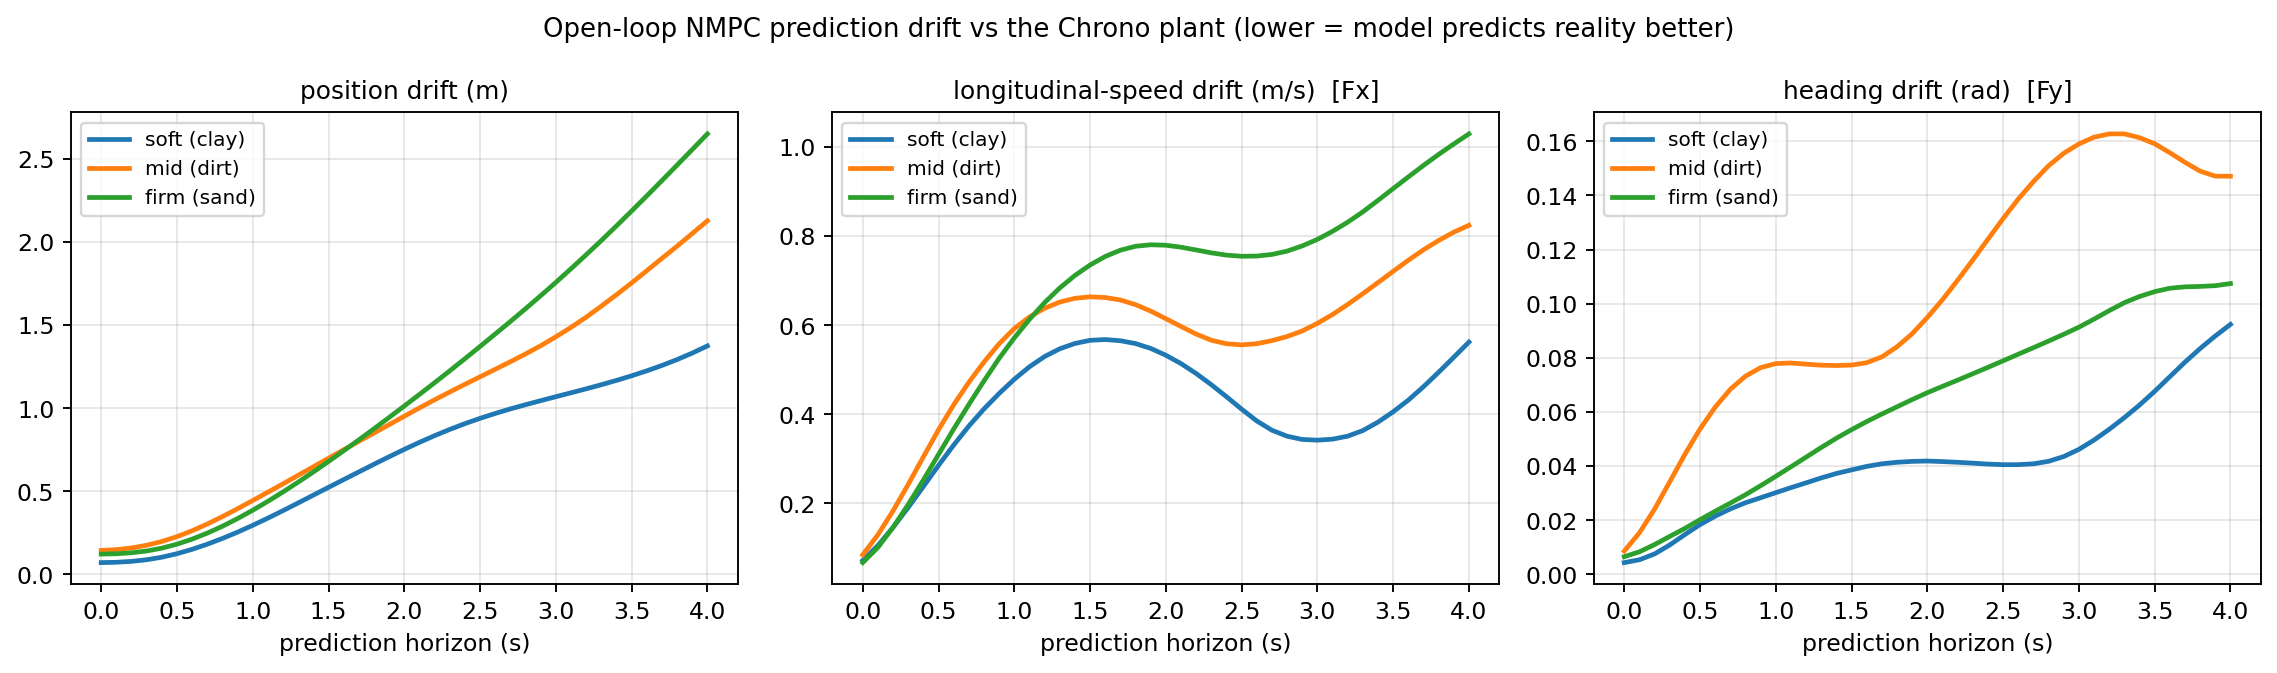
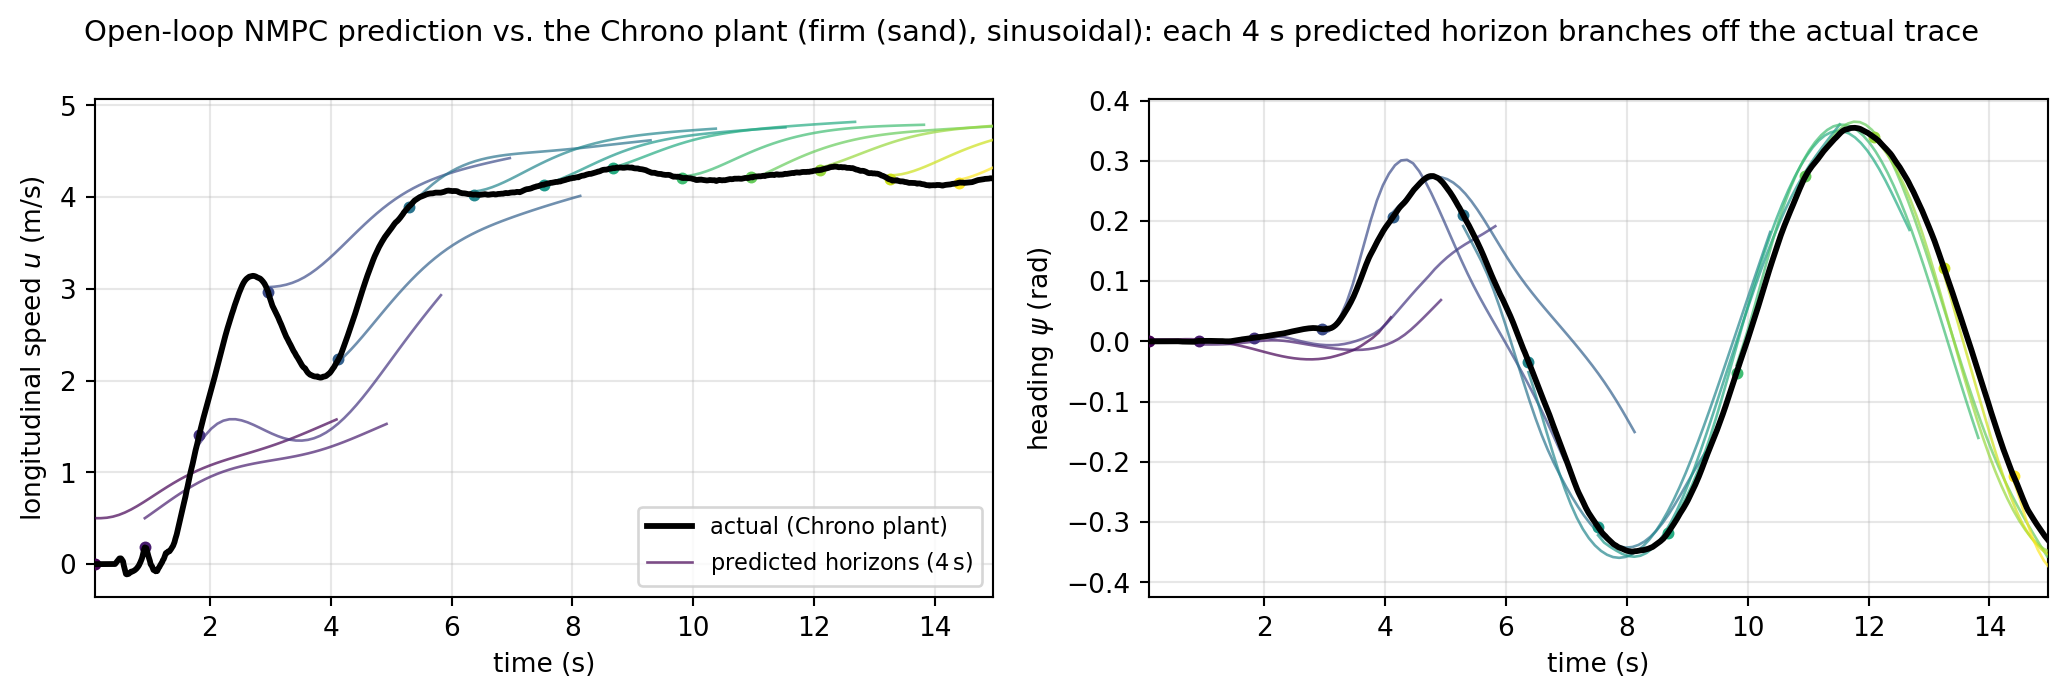
SCM_Final: open-loop prediction figure as a Dallas-style predicted-vs-actual overlay
Replace the three abstract drift-vs-horizon panels with a single figure that
literally shows the NMPC's predicted state evolution against the Chrono plant,
in the style of Dallas 2021 (docs/paper118.pdf): for a representative firm-sand
run, each 4 s predicted horizon (colour-graded by launch time, dot at the launch
point) branches off the actual plant trace. Left = longitudinal speed u (the
horizons run above the plant and the gap widens along the horizon -- the Fx
motion-resistance bias the throttle DOB absorbs); right = heading psi (the
horizons hug the plant -- geometry/Fy predicted well).

rollout_prediction_validation.py still prints the aggregate drift at 1/2/4 s by
terrain, so the quantitative claims in the text stay reproducible (verified
unchanged: heading <=0.15 rad over 4 s; sand speed bias 0.57->1.03 m/s; sand
position 2.65 m). New flags --terrain/--profile/--every pick the featured run.
The matching caption update lands in the paper-text commit that follows.

diff --git a/project/SCM_Final/benchmarking/rollout_prediction_validation.py b/project/SCM_Final/benchmarking/rollout_prediction_validation.py
@@ -3,18 +3,22 @@
 
 The controller logs its full predicted horizon trajectory each solve
 (``mpc_predictions.npz``: times[T], Z[T,6,N+1] = predicted [x,y,psi,u,v,omega]
-at stage dt, set LOG_MPC_PREDICTIONS=1). This pairs each prediction with the
-*actual* trajectory from the run's diag CSV and reports how far the NMPC's
-prediction drifts from reality as a function of horizon time -- broken out by
-component and terrain. The longitudinal-speed (u) drift is the deployment-level
-measure of Fx-prediction quality; the lateral position / heading drift measures
-Fy (including the rear axle).
+at stage dt, set LOG_MPC_PREDICTIONS=1). For one representative run this draws
+each predicted horizon as a faded "fan" branching off the *actual* Chrono plant
+trace (Dallas-2021-style predicted-vs-actual overlay), so the reader literally
+sees the prediction evolve against reality: the heading horizons hug the plant
+while the longitudinal-speed horizons run away from it on firm soil -- the
+Fx motion-resistance bias the throttle DOB absorbs.
+
+It also prints the aggregate drift at horizon = 1/2/4 s by terrain (mean over
+all matched runs), which backs the quantitative claims in the text.
 
 Usage:
-  python benchmarking/rollout_prediction_validation.py <results_dir_glob>
+  python benchmarking/rollout_prediction_validation.py [results_dir_glob] \
+      [--terrain sand] [--profile v7] [--every 1.2]
 """
 from __future__ import annotations
-import sys, glob, os, re
+import argparse, glob, os, re
 from pathlib import Path
 import numpy as np
 import pandas as pd
@@ -44,18 +48,23 @@ def _pairs(results_glob):
     return out
 
 
-def _errors_for_run(npz, diag, max_h=40):
-    p = np.load(npz)
-    times, Z, dt = p["times"], p["Z"], float(p["dt"])  # Z: (T,6,N+1)
+def _actual(diag):
+    """Ground-truth plant trace, finite-masked and sorted by time."""
     d = pd.read_csv(diag)
     t = pd.to_numeric(d["sim_time"], errors="coerce").to_numpy()
     cols = {k: pd.to_numeric(d.get(c), errors="coerce").to_numpy()
             for k, c in [("x", "x_fa_true"), ("y", "y_fa_true"),
                          ("psi", "psi_true"), ("u", "u_true")]}
     ok = np.isfinite(t) & np.isfinite(cols["x"]) & np.isfinite(cols["u"])
-    t, = (t[ok],)
-    for k in cols:
-        cols[k] = cols[k][ok]
+    t = t[ok]
+    cols = {k: v[ok] for k, v in cols.items()}
+    return t, cols
+
+
+def _errors_for_run(npz, diag, max_h=40):
+    p = np.load(npz)
+    times, Z, dt = p["times"], p["Z"], float(p["dt"])  # Z: (T,6,N+1)
+    t, cols = _actual(diag)
     if len(t) < 5:
         return None
     interp = {k: (lambda tt, v=cols[k]: np.interp(tt, t, v, left=np.nan, right=np.nan)) for k in cols}
@@ -74,20 +83,14 @@ def _errors_for_run(npz, diag, max_h=40):
     return dt, np.nanmean(pos, axis=0), np.nanmean(spd, axis=0), np.nanmean(hdg, axis=0)
 
 
-def main():
-    results_glob = sys.argv[1] if len(sys.argv) > 1 else str(ROOT / "benchmarking" / "results" / "mpc_tire_model_sweep_*")
-    pairs = _pairs(results_glob)
-    if not pairs:
-        print(f"no (mpc_predictions.npz, diag) pairs under {results_glob}"); return
-    print(f"found {len(pairs)} runs with predictions")
-    agg = {}  # terrain -> list of (dt, pos, spd, hdg)
+def _print_aggregate(pairs):
+    agg = {}
     for terr, npz, diag in pairs:
         r = _errors_for_run(npz, diag)
         if r:
             agg.setdefault(terr, []).append(r)
-    fig, axes = plt.subplots(1, 3, figsize=(13.5, 4.0))
-    titles = ["position drift (m)", "longitudinal-speed drift (m/s)  [Fx]", "heading drift (rad)  [Fy]"]
-    print("\nopen-loop prediction drift at horizon = 1 / 2 / 4 s, by terrain:")
+    print("\nopen-loop prediction drift at horizon = 1 / 2 / 4 s, by terrain "
+          "(mean over matched runs):")
     for terr in ["clay", "dirt", "sand"]:
         if terr not in agg:
             continue
@@ -96,24 +99,87 @@ def main():
         pos = np.nanmean([r[1] for r in runs], axis=0)
         spd = np.nanmean([r[2] for r in runs], axis=0)
         hdg = np.nanmean([r[3] for r in runs], axis=0)
-        h = np.arange(len(pos)) * dt
-        for ax, series in zip(axes, [pos, spd, hdg]):
-            ax.plot(h, series, lw=2, label=TERR_GROUP[terr])
-        def at(s, tt):
-            return s[min(int(round(tt / dt)), len(s) - 1)]
-        print(f"  {terr:5s}: pos {at(pos,1):.2f}/{at(pos,2):.2f}/{at(pos,4):.2f} m | "
+        at = lambda s, tt: s[min(int(round(tt / dt)), len(s) - 1)]
+        print(f"  {terr:5s} (n={len(runs):2d}): pos {at(pos,1):.2f}/{at(pos,2):.2f}/{at(pos,4):.2f} m | "
               f"u {at(spd,1):.2f}/{at(spd,2):.2f}/{at(spd,4):.2f} m/s | "
               f"psi {at(hdg,1):.3f}/{at(hdg,2):.3f}/{at(hdg,4):.3f} rad")
-    for ax, ttl in zip(axes, titles):
-        ax.set_xlabel("prediction horizon (s)"); ax.set_title(ttl, fontsize=10.5)
-        ax.grid(alpha=0.3); ax.legend(fontsize=8.5)
-    fig.suptitle("Open-loop NMPC prediction drift vs the Chrono plant (lower = model predicts reality better)",
-                 fontsize=11)
+
+
+def _pick_run(pairs, terrain, profile):
+    """Prefer the requested (terrain, speed-profile) run; fall back gracefully."""
+    cand = [p for p in pairs if p[0] == terrain] or pairs
+    pref = [p for p in cand if profile and profile in os.path.basename(os.path.dirname(p[1]))]
+    return (pref or cand)[0]
+
+
+def plot_overlay(npz, diag, terrain, every_s=1.2, max_h=40, out=None):
+    p = np.load(npz)
+    times, Z, dt = p["times"], p["Z"], float(p["dt"])
+    t, cols = _actual(diag)
+    H = min(max_h, Z.shape[2] - 1)
+    horizon_s = H * dt
+
+    # Launch a predicted-horizon fan every ~every_s of sim time.
+    solve_dt = float(np.median(np.diff(times))) if len(times) > 1 else dt
+    stride = max(1, int(round(every_s / max(solve_dt, 1e-3))))
+    launches = list(range(0, len(times), stride))
+    cmap = plt.get_cmap("viridis")
+
+    fig, (axu, axp) = plt.subplots(1, 2, figsize=(11.0, 3.7))
+    # (a) longitudinal speed u, (b) heading psi
+    for ax, comp, actual_key, ylab in [
+            (axu, 3, "u", "longitudinal speed $u$ (m/s)"),
+            (axp, 2, "psi", "heading $\\psi$ (rad)")]:
+        # actual plant trace (bold black)
+        av = cols[actual_key]
+        if actual_key == "psi":
+            av = np.unwrap(av)
+        ax.plot(t, av, color="black", lw=2.2, zorder=5,
+                label="actual (Chrono plant)")
+        # predicted-horizon fans (color-graded by launch time)
+        for j, i in enumerate(launches):
+            th = times[i] + np.arange(H + 1) * dt
+            pv = Z[i, comp, :H + 1].copy()
+            if actual_key == "psi":
+                pv = np.unwrap(pv)
+            c = cmap(j / max(1, len(launches) - 1))
+            ax.plot(th, pv, color=c, lw=1.0, alpha=0.7, zorder=3,
+                    label="predicted horizons ($4\\,$s)" if j == 0 else None)
+            # mark the launch point on the actual trace
+            ax.plot(times[i], np.interp(times[i], t, av), 'o', color=c,
+                    ms=3.5, zorder=4)
+        ax.set_xlabel("time (s)"); ax.set_ylabel(ylab)
+        ax.grid(alpha=0.3); ax.set_xlim(t.min(), t.max())
+    axu.legend(fontsize=8.5, loc="best")
+    fig.suptitle(
+        f"Open-loop NMPC prediction vs. the Chrono plant "
+        f"({TERR_GROUP.get(terrain, terrain)}, sinusoidal): each "
+        f"{horizon_s:.0f} s predicted horizon branches off the actual trace",
+        fontsize=11)
     fig.tight_layout()
     FIG.mkdir(parents=True, exist_ok=True)
-    out = FIG / "rollout_prediction_validation.png"
-    fig.savefig(out, dpi=170, bbox_inches="tight")
-    print(f"\nwrote {out}")
+    out = out or (FIG / "rollout_prediction_validation.png")
+    fig.savefig(out, dpi=190, bbox_inches="tight")
+    print(f"wrote {out}  (run: {os.path.basename(os.path.dirname(npz))}, "
+          f"{len(launches)} horizons every {every_s:g}s)")
+
+
+def main():
+    ap = argparse.ArgumentParser()
+    ap.add_argument("glob", nargs="?",
+                    default=str(ROOT / "benchmarking" / "results" / "mpc_tire_model_sweep_*"))
+    ap.add_argument("--terrain", default="sand", help="terrain to feature in the overlay")
+    ap.add_argument("--profile", default="v7", help="speed-profile token to prefer (e.g. v7)")
+    ap.add_argument("--every", type=float, default=1.2, help="seconds between predicted fans")
+    args = ap.parse_args()
+
+    pairs = _pairs(args.glob)
+    if not pairs:
+        print(f"no (mpc_predictions.npz, diag) pairs under {args.glob}"); return
+    print(f"found {len(pairs)} runs with predictions")
+    terr, npz, diag = _pick_run(pairs, args.terrain, args.profile)
+    plot_overlay(npz, diag, terr, every_s=args.every)
+    _print_aggregate(pairs)
 
 
 if __name__ == "__main__":
